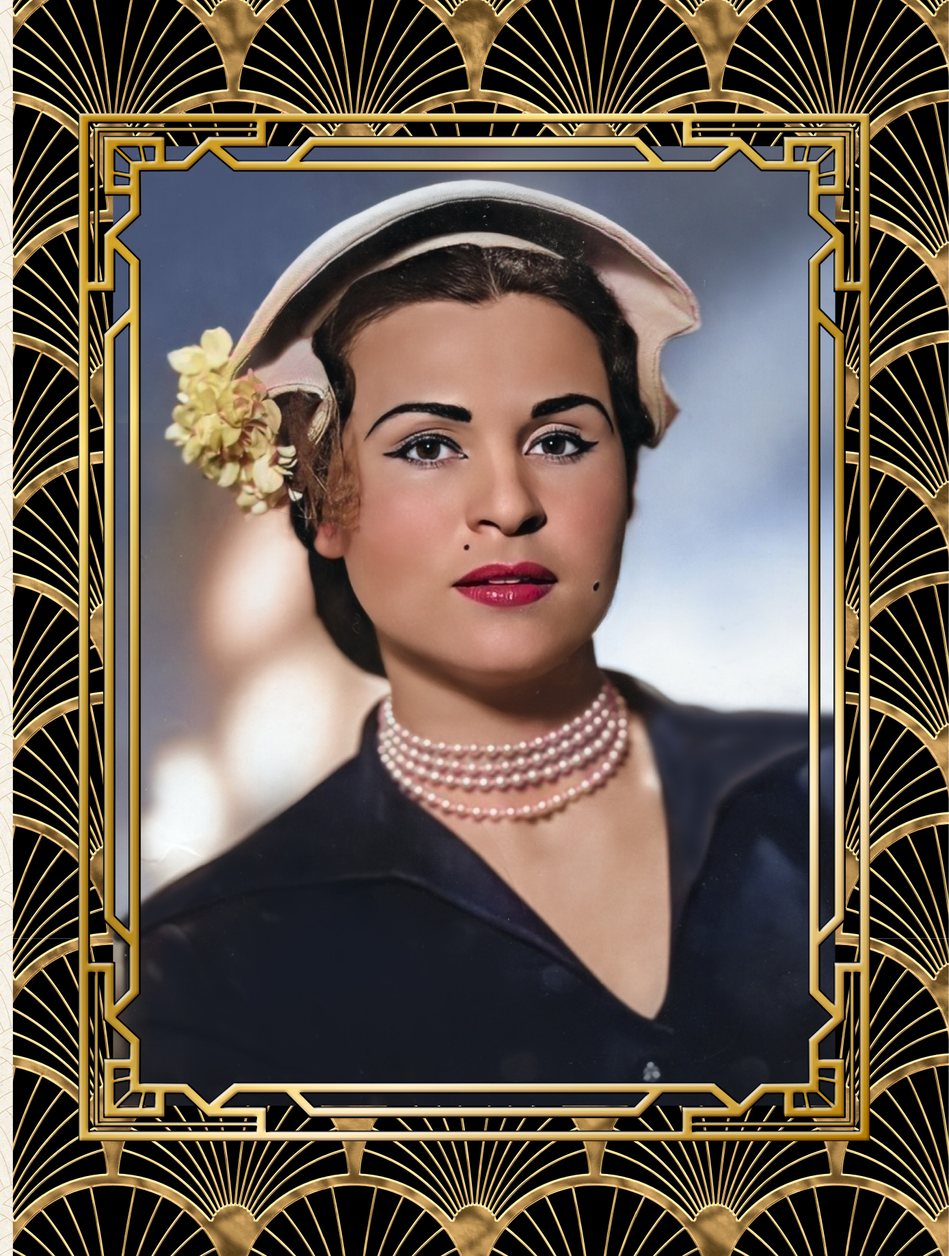
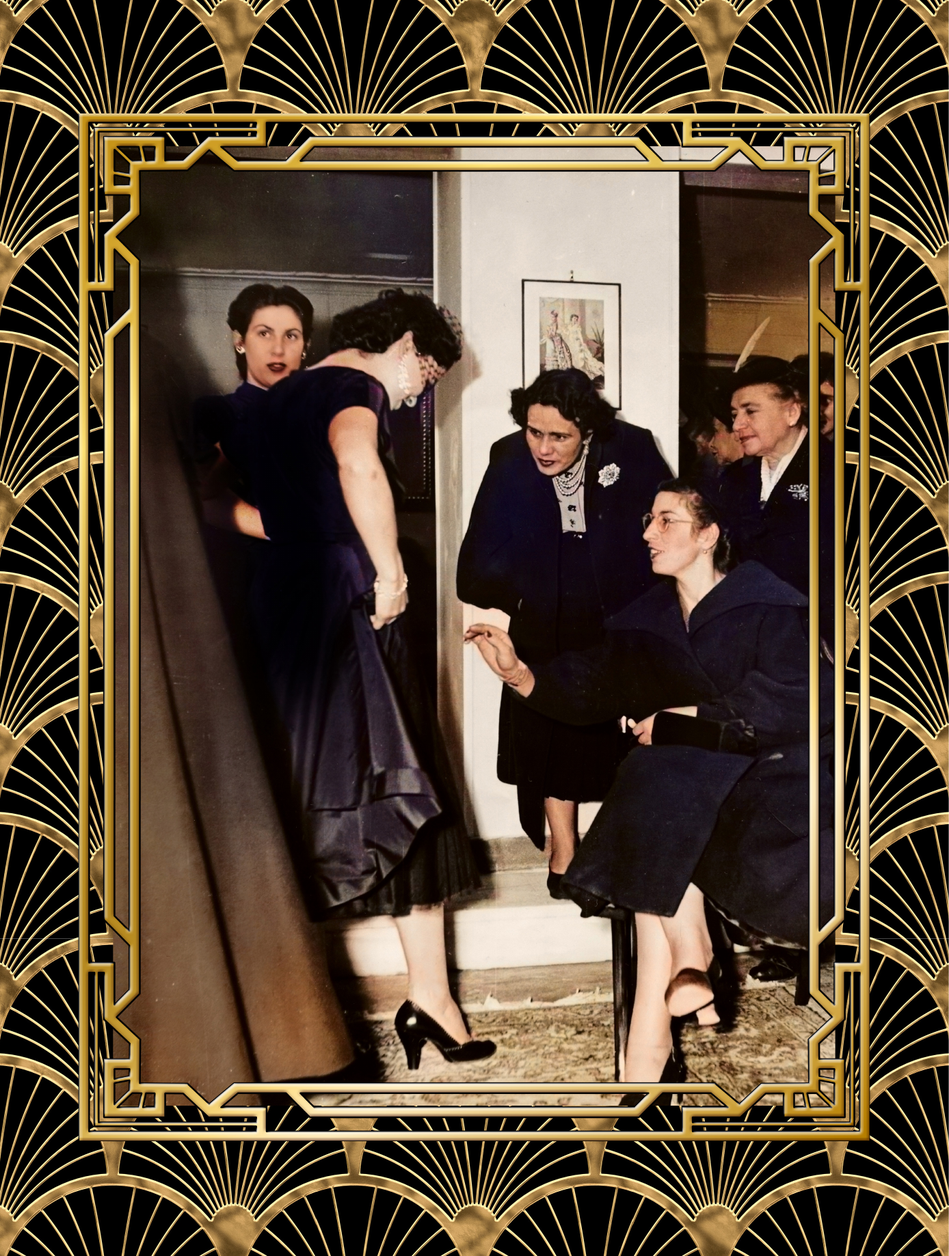
Best-known wording, English-only timeline text, straighten images, swap last two book pages, new Legacy portrait

diff --git a/components/StoryLifeClient.tsx b/components/StoryLifeClient.tsx
@@ -29,7 +29,7 @@ const chapters: Chapter[] = [
     cta: { label: "View Archive Sources", href: "/archive" },
     imageLeft: false,
     images: [
-      { src: "/images/mary-archive-sundress-hat.png", alt: "Mary Pavlatou — Full-body newspaper photograph in white sundress and wide-brimmed hat, family archive", w: 1388, h: 1838, rot: -3 },
+      { src: "/images/mary-archive-sundress-hat.png", alt: "Mary Pavlatou — Full-body newspaper photograph in white sundress and wide-brimmed hat, family archive", w: 1388, h: 1838 },
     ],
   },
   {
@@ -37,7 +37,7 @@ const chapters: Chapter[] = [
     roman: "II",
     title: "A Daughter of Greece",
     greek: "Ρίζες Ελληνικές",
-    body: "Mary's life carried the dignity, faith, and pride of her Greek roots. Her story is woven with family, culture, and the enduring Greek idea of χάρη — grace that lives in both presence and soul.",
+    body: "Mary's life carried the dignity, faith, and pride of her Greek roots. Her story is woven with family, culture, and the enduring Greek ideal of grace, which lives in both presence and soul.",
     cta: { label: "Explore Her Heritage", href: "/archive" },
     imageLeft: true,
     images: [
@@ -54,7 +54,7 @@ const chapters: Chapter[] = [
     cta: { label: "View the Archive", href: "/archive" },
     imageLeft: false,
     images: [
-      { src: "/images/mary-archive-colorized-bow-portrait.png", alt: "Mary Pavlatou — Colorized close-up portrait with bow headband, family archive", w: 1388, h: 1838, rot: -2 },
+      { src: "/images/mary-archive-colorized-bow-portrait.png", alt: "Mary Pavlatou — Colorized close-up portrait with bow headband, family archive", w: 1388, h: 1838 },
     ],
   },
   {
@@ -74,11 +74,11 @@ const chapters: Chapter[] = [
     roman: "V",
     title: "Chicago and the Discipline of Fashion",
     greek: "Η Τέχνη του Μανεκέν",
-    body: "At the Patricia Vance School of Fashion in Chicago, Mary studied the art of the μανεκέν — posture, movement, and presence as a living language. She learned that the body in motion carries meaning.",
+    body: "At the Patricia Vance School of Fashion in Chicago, Mary studied the art of the mannequin — posture, movement, and presence as a living language. She learned that the body in motion carries meaning.",
     cta: { label: "Fashion World", href: "/fashion" },
     imageLeft: false,
     images: [
-      { src: "/images/mary-archive-colorized-navy-veiled-hat.png", alt: "Mary Pavlatou — Colorized photograph on the runway in a navy gown and veiled hat, family archive", w: 1388, h: 1838, rot: -1 },
+      { src: "/images/mary-archive-colorized-navy-veiled-hat.png", alt: "Mary Pavlatou — Colorized photograph on the runway in a navy gown and veiled hat, family archive", w: 1388, h: 1838 },
     ],
   },
   {
@@ -98,11 +98,11 @@ const chapters: Chapter[] = [
     roman: "VII",
     title: "Athens Recognizes Her",
     greek: "Η Αθήνα Τη Αναγνωρίζει",
-    body: "Mary became one of Athens's best-known μανεκέν — appearing at ETAM and Halifa salons at the Grande Bretagne, at the Tsitsopoulos house at the King George Hotel, and at couture houses across the city.",
+    body: "Mary became Athens's best-known mannequin — appearing at ETAM and Halifa salons at the Grande Bretagne, at the Tsitsopoulos house at the King George Hotel, and at couture houses across the city.",
     cta: { label: "View Archive", href: "/archive" },
     imageLeft: false,
     images: [
-      { src: "/images/mary-archive-hat-mirror.png", alt: "Newspaper clipping — hat feature with Mary Pavlatou at the mirror, Archontaki-Kallergi salon", w: 1388, h: 1838, rot: 2 },
+      { src: "/images/mary-archive-hat-mirror.png", alt: "Newspaper clipping — hat feature with Mary Pavlatou at the mirror, Archontaki-Kallergi salon", w: 1388, h: 1838 },
     ],
   },
   {
@@ -146,11 +146,11 @@ const chapters: Chapter[] = [
     roman: "XI",
     title: "Eternal Memory",
     greek: "Αιωνία η Μνήμη",
-    body: "The Pulos Brothers kept her photographs, clippings, and memories safe for decades. Through their compilation, restoration, and book design, Mary's story was brought back into the light. Αιωνία η μνήμη της.",
+    body: "The Pulos Brothers kept her photographs, clippings, and memories safe for decades. Through their compilation, restoration, and book design, Mary's story was brought back into the light. May her memory be eternal.",
     cta: { label: "Enter the Archive", href: "/archive" },
     imageLeft: false,
     images: [
-      { src: "/images/mary-archive-strapless-cocktail-named.png", alt: "Newspaper feature referencing \"the style of Mary Pavlatou\" — strapless patterned cocktail dress, family archive", w: 1388, h: 1838, rot: -2 },
+      { src: "/images/mary-archive-strapless-cocktail-named.png", alt: "Newspaper feature referencing \"the style of Mary Pavlatou\" — strapless patterned cocktail dress, family archive", w: 1388, h: 1838 },
     ],
   },
 ];
@@ -426,8 +426,8 @@ export default function StoryLifeClient() {
                 Athens&rsquo; Best Mannequin
               </h3>
               <p className="font-serif" style={{ color: "#4A3C2A", fontSize: "clamp(15px,1.49vw,17px)", lineHeight: 1.85 }}>
-                In the archive, Mary Pavlatou is remembered as one of Athens&rsquo;s best-known and
-                most respected mannequins — recognized for her poise, discipline, and commanding
+                In the archive, Mary Pavlatou is remembered as Athens&rsquo;s best-known and
+                most respected mannequin — recognized for her poise, discipline, and commanding
                 presence at the city&rsquo;s most celebrated fashion salons. In the period press,
                 &ldquo;mannequin&rdquo; was the professional term for a trained fashion model — a
                 credential Mary earned through rigorous formal study, not a casual title.

diff --git a/components/FashionWorldClient.tsx b/components/FashionWorldClient.tsx
@@ -26,7 +26,7 @@ const houses = [
     name: "ETAM",
     nameStyle: { fontFamily: "var(--font-cinzel)", fontSize: "clamp(18px,2.07vw,25px)", letterSpacing: "0.22em", fontWeight: 900 },
     city: "Grande Bretagne · Athens",
-    caption: "Επιδείξεις μόδας at the Grande Bretagne — the most celebrated fashion salons of Athens.",
+    caption: "Fashion shows at the Grande Bretagne — the most celebrated fashion salons of Athens.",
     image: "/images/mary-archive-etam-miss-mary-clip.png",
     imageW: 375, imageH: 904,
   },
@@ -34,7 +34,7 @@ const houses = [
     name: "Halifa",
     nameStyle: { fontFamily: "var(--font-cormorant)", fontStyle: "italic", fontSize: "clamp(17px,1.95vw,25px)", fontWeight: 700 },
     city: "Γουναρικά · Athens",
-    caption: "Γουναρικά — the finest fur house in Athens. Ermine and mink at the Grande Bretagne.",
+    caption: "Furs — the finest fur house in Athens. Ermine and mink at the Grande Bretagne.",
     image: "/images/book-clipping-fur-coat.png",
     imageW: 1388, imageH: 1838,
   },
@@ -42,7 +42,7 @@ const houses = [
     name: "Tsitsopoulos",
     nameStyle: { fontFamily: "var(--font-cinzel)", fontSize: "clamp(13px,1.38vw,16px)", letterSpacing: "0.18em", fontWeight: 900 },
     city: "King George Hotel · Athens",
-    caption: "Καλοκαιρινά μοντέλλα — summer and spring collections at the King George Hotel.",
+    caption: "Summer and spring collections at the King George Hotel.",
     image: "/images/mary-archive-street-coat-named.png",
     imageW: 1388, imageH: 1838,
   },
@@ -50,7 +50,7 @@ const houses = [
     name: "Archontaki-Kallergi",
     nameStyle: { fontFamily: "var(--font-cormorant)", fontStyle: "italic", fontSize: "clamp(14px,1.49vw,18px)", fontWeight: 700 },
     city: "Μόδα Καπέλα · Athens",
-    caption: "Μανεκέν Μαίρη Παυλάτου — presenting Rose Valois hat models at the Archontaki-Kallergi salon.",
+    caption: "Mannequin Mary Pavlatou — presenting Rose Valois hat models at the Archontaki-Kallergi salon.",
     image: "/images/mary-archive-hat-portraits-named.png",
     imageW: 1388, imageH: 1838,
   },
@@ -58,7 +58,7 @@ const houses = [
     name: "Eleni Mallidou",
     nameStyle: { fontFamily: "var(--font-cormorant)", fontStyle: "italic", fontSize: "clamp(16px,1.72vw,21px)", fontWeight: 700 },
     city: "Ανοιξιάτικη Επίδειξις",
-    caption: "Η Ανοιξιάτικη Επίδειξις — the spring fashion show of the Mallidou house.",
+    caption: "The spring fashion show of the Mallidou house.",
     image: "/images/book-clipping-mallidou-spring.png",
     imageW: 1388, imageH: 1838,
   },
@@ -114,7 +114,7 @@ const stats = [
   },
   {
     label: "Iconic Mannequin",
-    text: "Recognized as one of the best in Athens and among the very best of her era",
+    text: "Recognized as the best-known mannequin in Athens",
     icon: (
       <svg width="32" height="32" viewBox="0 0 32 32" fill="none" aria-hidden="true">
         <path d="M16 3L19 11H28L21 16.5L23.5 25L16 20.5L8.5 25L11 16.5L4 11H13Z" stroke="#8B7030" strokeWidth="1.2" fill="none" />
@@ -356,7 +356,7 @@ export default function FashionWorldClient() {
               The Golden Era of Haute Couture
             </h2>
             <p className="font-serif" style={{ color: "#4A3C2A", fontSize: "clamp(15px,1.49vw,17px)", lineHeight: 1.9 }}>
-              The 1950s were a time of couture, craftsmanship, and cultural beauty. Mary Pavlatou stood among the world's finest mannequins, representing Greece with poise, intelligence, and unforgettable presence.
+              The 1950s were a time of couture, craftsmanship, and cultural beauty. Mary Pavlatou was Athens's best-known mannequin, representing Greece with poise, intelligence, and unforgettable presence.
             </p>
           </div>
           {/* Right: 4 stats */}
@@ -524,7 +524,7 @@ export default function FashionWorldClient() {
             color: "#1C1814", fontSize: "clamp(17px,2.07vw,25px)",
             lineHeight: 1.75, flex: 1, display: "flex", alignItems: "baseline", gap: "10px", flexWrap: "wrap",
           }}>
-            <span>&ldquo;Η δις Παυλάτου σας παρουσιάζει αυτό το κομψό παλτό — Miss Pavlatou presents this elegant coat.&rdquo;</span>
+            <span>&ldquo;Miss Pavlatou presents this elegant coat.&rdquo;</span>
             <TranslateIcon />
           </blockquote>
 

diff --git a/data/maryTimeline.ts b/data/maryTimeline.ts
@@ -45,7 +45,7 @@ export const timelineSlides: TimelineSlide[] = [
     greekPhrase: "Η Τέχνη του Μανεκέν",
     title: "The First Greek Certified Mannequin",
     dateLabel: "Chicago · Athens",
-    text: "At the Patricia Vance School of Fashion in Chicago, Mary studied the art of the μανεκέν — posture, movement, and presence as a living language. She returned to Greece as the first certified professional mannequin her country had ever known.",
+    text: "At the Patricia Vance School of Fashion in Chicago, Mary studied the art of the mannequin — posture, movement, and presence as a living language. She returned to Greece as the first certified professional mannequin her country had ever known.",
     ctaLabel: "World of Fashion",
     ctaHref: "/fashion",
     images: [
@@ -56,9 +56,9 @@ export const timelineSlides: TimelineSlide[] = [
     id: "iii",
     roman: "III",
     greekPhrase: "Αθήνα",
-    title: "The Σαλόνια of Athens",
+    title: "The Salons of Athens",
     dateLabel: "Athens · 1950s",
-    text: "The great οίκοι μόδας of Athens — ETAM, Halifa, Tsitsopoulos, Archontaki-Kallergi — knew her by name. Their επιδείξεις at the Grande Bretagne and the King George were the most celebrated salons in the city.",
+    text: "The great fashion houses of Athens — ETAM, Halifa, Tsitsopoulos, Archontaki-Kallergi — knew her by name. Their shows at the Grande Bretagne and the King George were the most celebrated salons in the city.",
     ctaLabel: "View Archive",
     ctaHref: "/archive",
     images: [
@@ -71,7 +71,7 @@ export const timelineSlides: TimelineSlide[] = [
     greekPhrase: "Επίδειξις Μόδας",
     title: "On the Runway",
     dateLabel: "Grande Bretagne · King George",
-    text: "Under the chandeliers of Athens' finest hotels, Mary presented the season's collections — from ermine fur coats at the Grande Bretagne to summer day dresses at the King George. Her presence on the πασαρέλα was unmistakable.",
+    text: "Under the chandeliers of Athens' finest hotels, Mary presented the season's collections — from ermine fur coats at the Grande Bretagne to summer day dresses at the King George. Her presence on the runway was unmistakable.",
     ctaLabel: "Explore This Chapter",
     ctaHref: "/fashion",
     images: [

diff --git a/components/LegacyPageClient.tsx b/components/LegacyPageClient.tsx
@@ -277,8 +277,8 @@ export default function LegacyPageClient() {
             <div style={{ border: "1px solid #C5A84A", boxShadow: "0 16px 56px rgba(28,24,20,0.25)", background: "#F5F1E6", padding: "10px" }}>
               <div style={{ position: "relative", aspectRatio: "3/4" }}>
                 <Image
-                  src="/images/mary-archive-colorized-social-group.png"
-                  alt="Mary Pavlatou — colorized social gathering, family archive"
+                  src="/images/mary-archive-colorized-cream-hat-portrait.png"
+                  alt="Mary Pavlatou — colorized portrait in a cream hat with flowers and pearl choker, family archive"
                   fill
                   sizes="(max-width: 1024px) 90vw, 500px"
                   style={{ objectFit: "cover", objectPosition: "top center" }}

diff --git a/components/ArchivePageClient.tsx b/components/ArchivePageClient.tsx
@@ -898,7 +898,7 @@ export default function ArchivePageClient() {
               boxShadow: "0 8px 24px rgba(139,112,48,0.15)",
               background: C.card,
               zIndex: 4,
-              transform: "rotate(-3deg)",
+              transform: "none",
             }}
           >
             <div style={{ position: "relative", aspectRatio: "3/4" }}>

diff --git a/components/PopUpBookClient.tsx b/components/PopUpBookClient.tsx
@@ -896,7 +896,7 @@ export default function PopUpBookClient() {
               boxShadow: "0 8px 24px rgba(139,112,48,0.15)",
               background: C.card,
               zIndex: 4,
-              transform: "rotate(-3deg)",
+              transform: "none",
             }}
           >
             <div style={{ position: "relative", aspectRatio: "3/4" }}>
